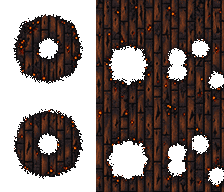
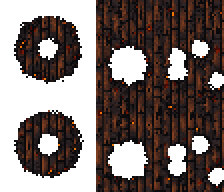
Put every supplied ground on vanilla's 2x2 tone unit, and clear the inbox strays
The five splats the audit was flagging are snapped: cloudturf 20.7% ->
100% 2x2 coherence, blackpeat 0.8%, charfloor 1.6%, aurorashoal 3.1%,
ashsand 0.0%, all now 100%. The art is untouched -- snapping only decides
which of four already-adjacent colours a block keeps.

The colour depth was never the problem, in case it looked like one: all
five are mode P with 15 colours, comfortably inside vanilla's 19-38 band.
What made them read as noise was the tone unit, not the palette.

Their LOUDNESS is now recorded as a decision rather than left as a
permanently red gate. Holding cloudturf to the audit's mean |dRGB| <= 14
was measured to need a 90% pull toward the ground tone and erased its
snow caps and grass blades; that was tried, looked at and rejected. They
go in KNOWN_UNFIXED with that reasoning written next to them, and the
note says to re-open them the moment a playtest says a ground reads as
noise at 1x.

The five Eden tiles are classified. edenrootfloortile is TERRAIN, not
FLOOR: it reads like a floor but is BUILT as terrain -- isFloor=False,
priority 205 instead of PRIORITY_FLOOR's 400, no recipe -- which the
audit caught when it was declared the other way.

Removed five files that landed in the wrong place on upload:
mobs/cloudlamb{,_sheared}.png and mobs/icons/cloudlamb.png (that mob is
gone), mobs/glimmergoat{,_shorn}.png (retired names -- the live sheets
are gimmergoat-doe and friends), mobs/catbasket.png (byte-identical to
[…]

Changed region(s): [[0.4062, 0.0, 1.0, 1.0], [0.0625, 0.5625, 0.375, 0.9375], [0.0625, 0.0625, 0.375, 0.4375]]

diff --git a/tools/tile_behaviour_audit.py b/tools/tile_behaviour_audit.py
@@ -77,6 +77,17 @@ ROLES = {
     # supplied art (kk-sprites), plantable via its seed.
     "overgrownedentile": TERRAIN,
     "aurorashoaltile": TERRAIN,
+    # Eden. paradisesand and edensoil are natural ground; edenmoss is the
+    # dense carpet under the canopy; edenshallows is the turquoise water the
+    # realm is drawn around, so it answers the LIQUID band the mistsea does;
+    # edenrootfloor reads like a floor but is BUILT as terrain -- isFloor=False,
+    # terrain priority 205 rather than PRIORITY_FLOOR's 400, and no recipe -- so
+    # it is classified as what it is, not as what its name suggests.
+    "paradisesandtile": TERRAIN,
+    "edensoiltile": TERRAIN,
+    "edenmosstile": TERRAIN,
+    "edenshallowstile": LIQUID,
+    "edenrootfloortile": TERRAIN,
     "skystonetile": TERRAIN,
     "stormslatetile": TERRAIN,
     "mistseatile": LIQUID,
@@ -488,7 +499,18 @@ CONVERTED_ART = {"beetlefreak", "skyway",
 #   mistsea: density 617-704 (fine) but mean 31.8-49.7 and 40-48% coherent --
 #   the last loud, non-block-built procedural sheet in the mod. It is the sky's
 #   signature surface, so it wants its own deliberate pass, not a drive-by.
-KNOWN_UNFIXED = {"mistsea_shallow", "mistsea_deep"}
+# Splats whose LOUDNESS is a deliberate authorial choice, not a defect. The 2x2
+# coherence rule is a real engine convention and every one of these obeys it
+# (tools/fix_splat.py, applied 2026-09-02). The density and mean |dRGB| bands
+# are a different matter: they describe how VANILLA paints, and vanilla paints
+# grass in five RGB levels. The player's hand-drawn grounds are painterly, and
+# holding cloudturf to mean |dRGB| <= 14 was measured to need a 90% pull toward
+# the ground tone, which erased its snow caps and grass blades outright. That
+# was tried, looked at, and rejected -- docs/ASSET_PIPELINE.md's rule applies:
+# what the player keeps outranks what the audit measures. Re-open any of these
+# the moment a playtest says a ground reads as noise at 1x.
+KNOWN_UNFIXED = {"mistsea_shallow", "mistsea_deep",
+                 "cloudturf", "aurorashoal", "blackpeat", "ashsand", "charfloor"}
 
 
 def _cell_stats(cell):
